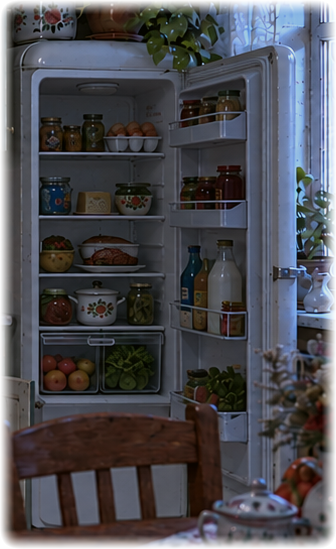
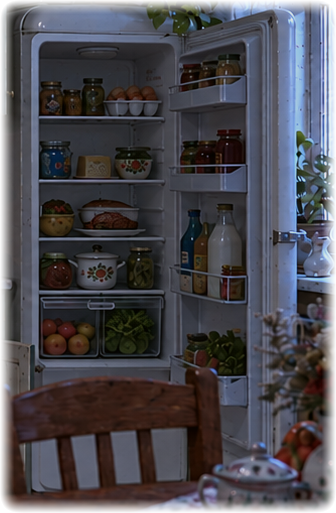
Dose auf dem Kühlschrank bleibt liegen

diff --git a/quest-ostern.html b/quest-ostern.html
@@ -481,9 +481,11 @@
     { id: 'k_unten_rechts', ansicht: 'kueche', x: 1070, y: 500, w: 278, h: 192, typ: 'ausschnitt', zustand: 'k_unten_rechts_offen', label: 'Unterschrank unter der Spüle',
       patch: 'bilder/kue-unten-rechts-dunkel.png', patchX: 1063, patchY: 493, patchW: 292, patchH: 206,
       patchHell: 'bilder/kue-unten-rechts-hell.png', patchHellX: 1063, patchHellY: 493, patchHellW: 292, patchHellH: 206 },
-    { id: 'k_kuehl', ansicht: 'kueche', x: 1374, y: 150, w: 316, h: 535, typ: 'ausschnitt', zustand: 'k_kuehl_offen', label: 'Kühlschrank',
-      patch: 'bilder/kue-kuehl-dunkel.png', patchX: 1361, patchY: 143, patchW: 336, patchH: 549,
-      patchHell: 'bilder/kue-kuehl-hell.png', patchHellX: 1361, patchHellY: 143, patchHellW: 336, patchHellH: 549 },
+    // Schnittkante unter der Oberseite: die Emailledose dort steht nur im
+    // geöffneten Bild, sonst taucht sie beim Öffnen aus dem Nichts auf.
+    { id: 'k_kuehl', ansicht: 'kueche', x: 1374, y: 186, w: 316, h: 500, typ: 'ausschnitt', zustand: 'k_kuehl_offen', label: 'Kühlschrank',
+      patch: 'bilder/kue-kuehl-dunkel.png', patchX: 1361, patchY: 179, patchW: 336, patchH: 513,
+      patchHell: 'bilder/kue-kuehl-hell.png', patchHellX: 1361, patchHellY: 179, patchHellW: 336, patchHellH: 513 },
     // --- Garten ---
     { id: 'r_busch',    ansicht: 'garten', x: 120,  y: 480, w: 300, h: 240, typ: 'toggle', form: 'busch', zustand: 'busch_geteilt', label: 'Busch' },
     { id: 'r_vogel',    ansicht: 'garten', x: 1250, y: 180, w: 120, h: 130, typ: 'toggle', form: 'klappe', zustand: 'vogelhaus_offen', label: 'Vogelhaus' },

diff --git a/UEBERGABE-OSTERN.md b/UEBERGABE-OSTERN.md
@@ -219,7 +219,7 @@ Dunkeln öffnen.
 | `k_unten_links` | 370,492 378×210 | `k_unten_links_offen` |
 | `k_ofen` Backofen | 848,488 200×212 | `k_ofen_offen` → Ei e17 |
 | `k_unten_rechts` Spüle | 1070,500 278×192 | `k_unten_rechts_offen` |
-| `k_kuehl` Kühlschrank | 1374,150 316×535 | `k_kuehl_offen` → Ei e14 |
+| `k_kuehl` Kühlschrank | 1374,186 316×500 | `k_kuehl_offen` → Ei e14. Kante unter der Oberseite, die Dose dort gibt es nur im geöffneten Bild |
 
 Das Wandschränkchen ist im geschlossenen Zustand nur ein feiner Umriss auf der
 Tapete, praktisch unsichtbar. Das ist Absicht.
